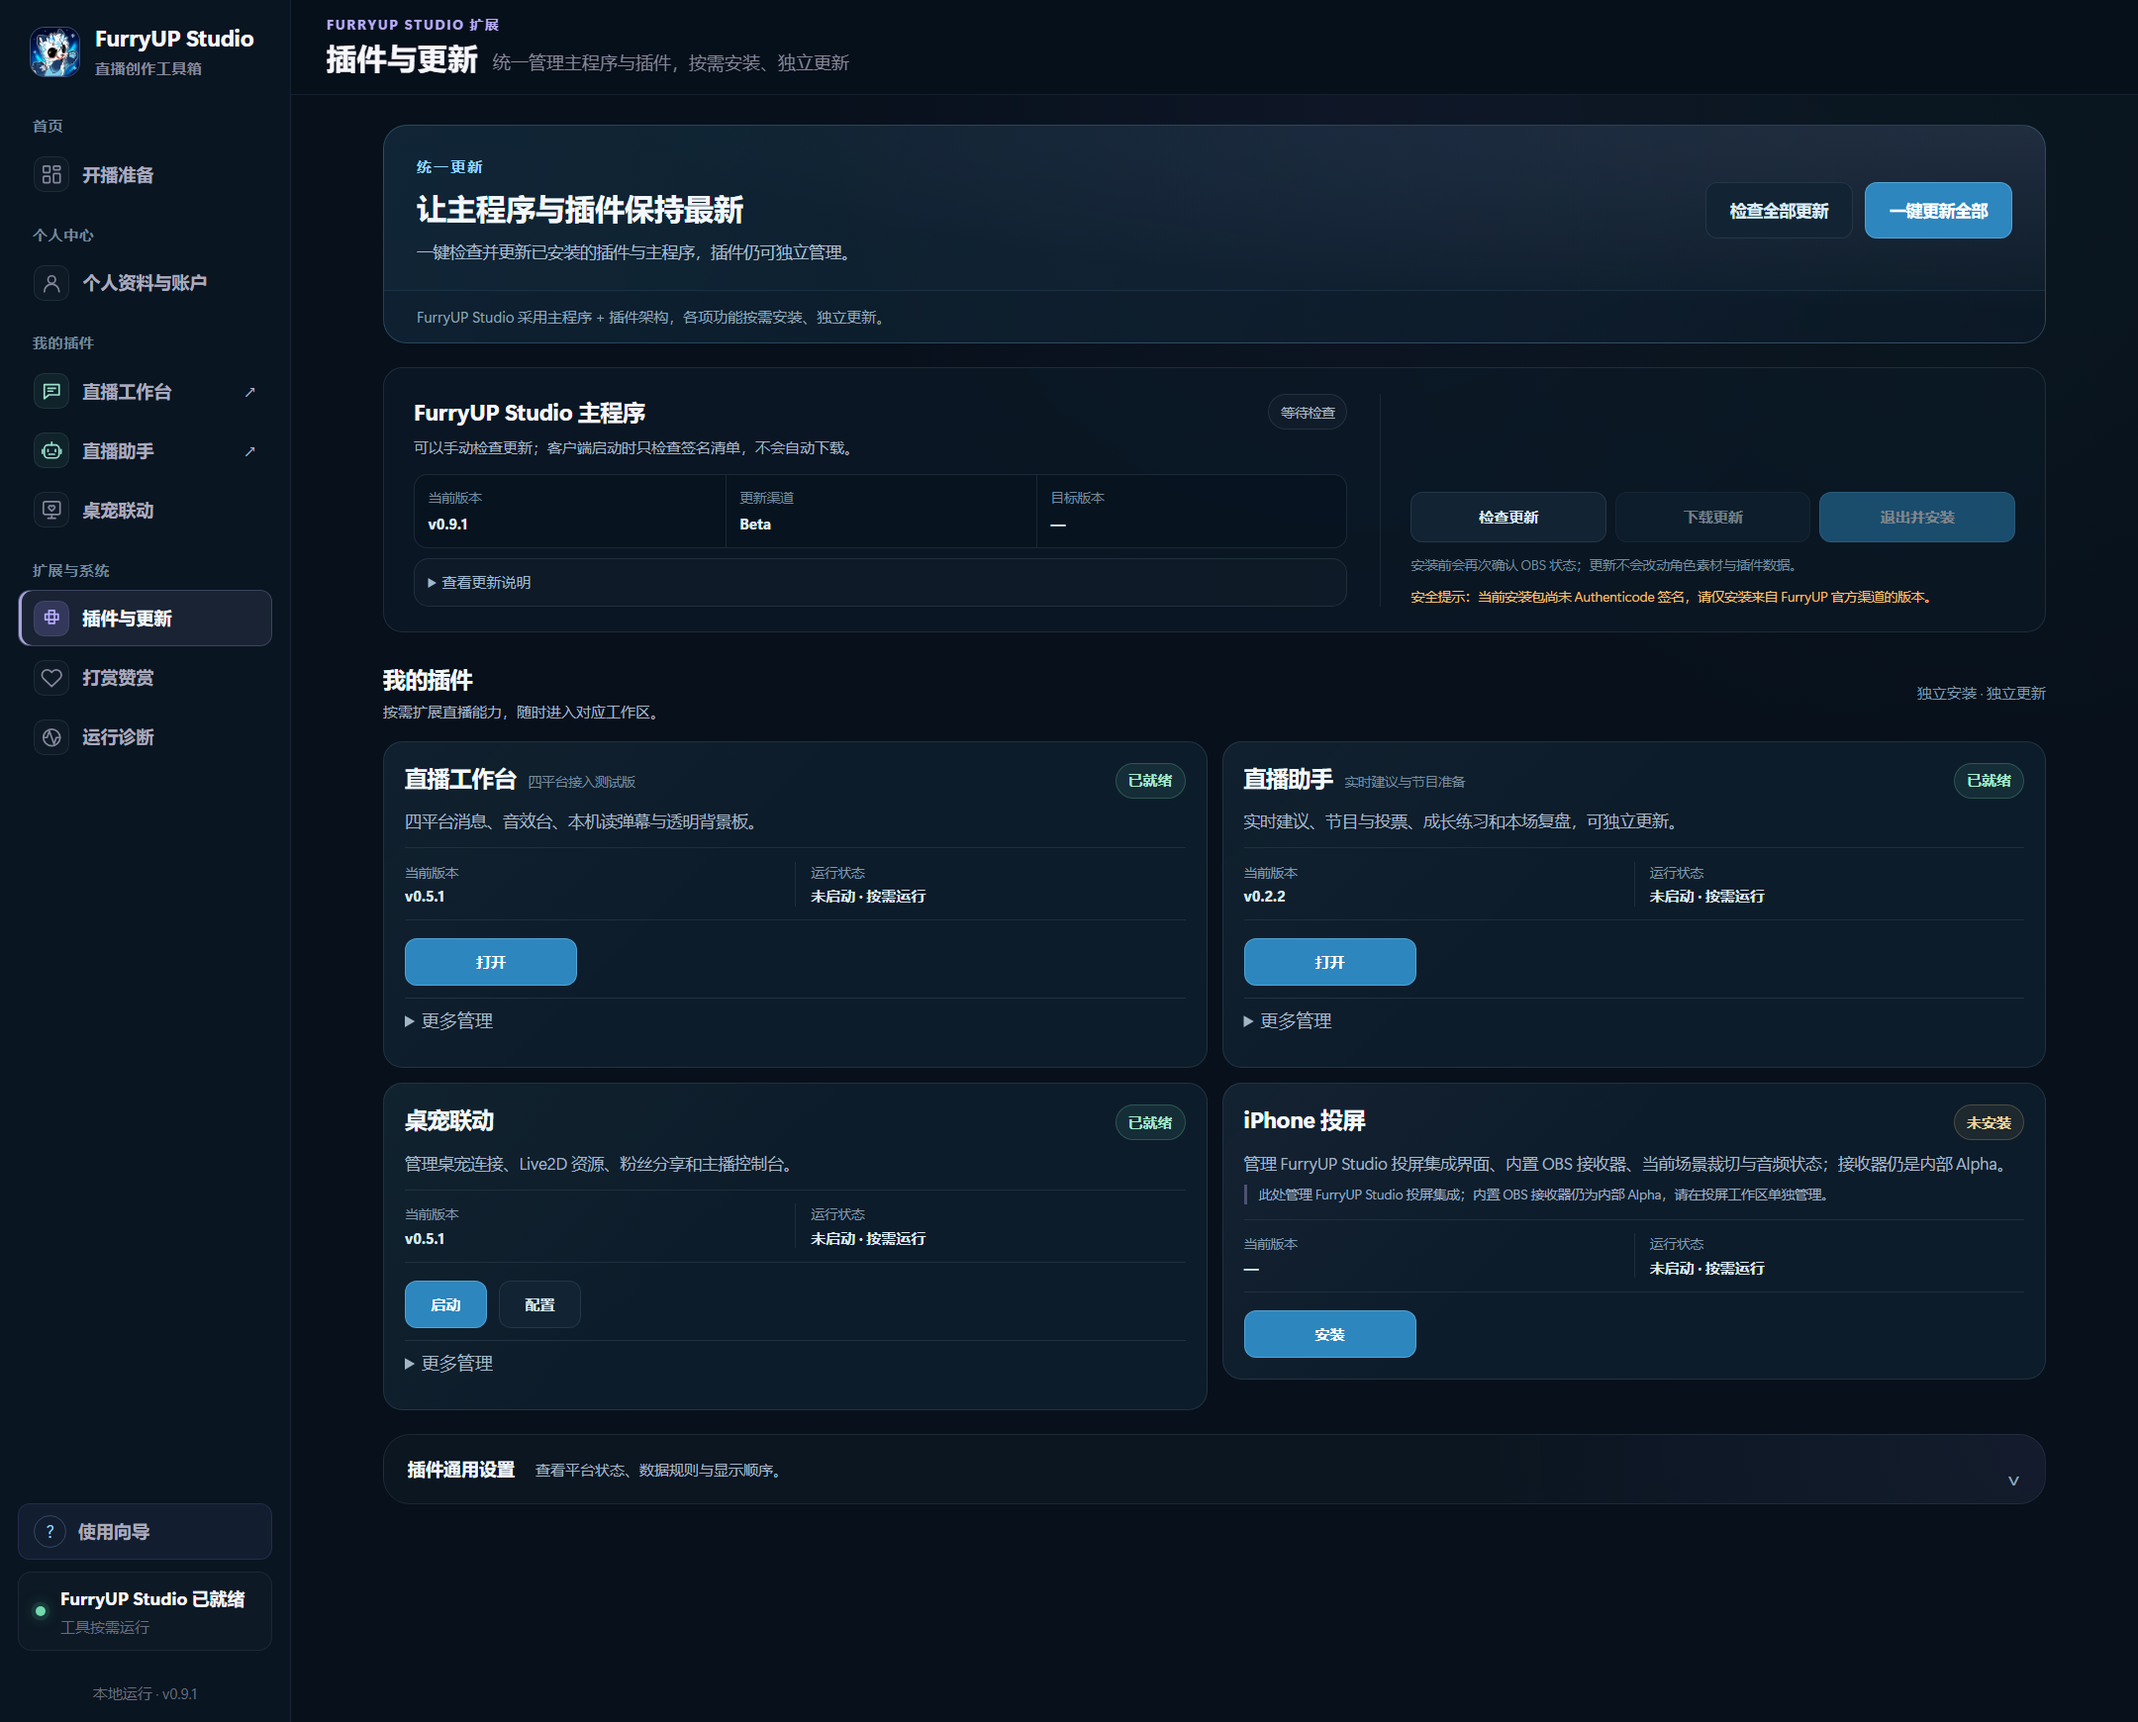
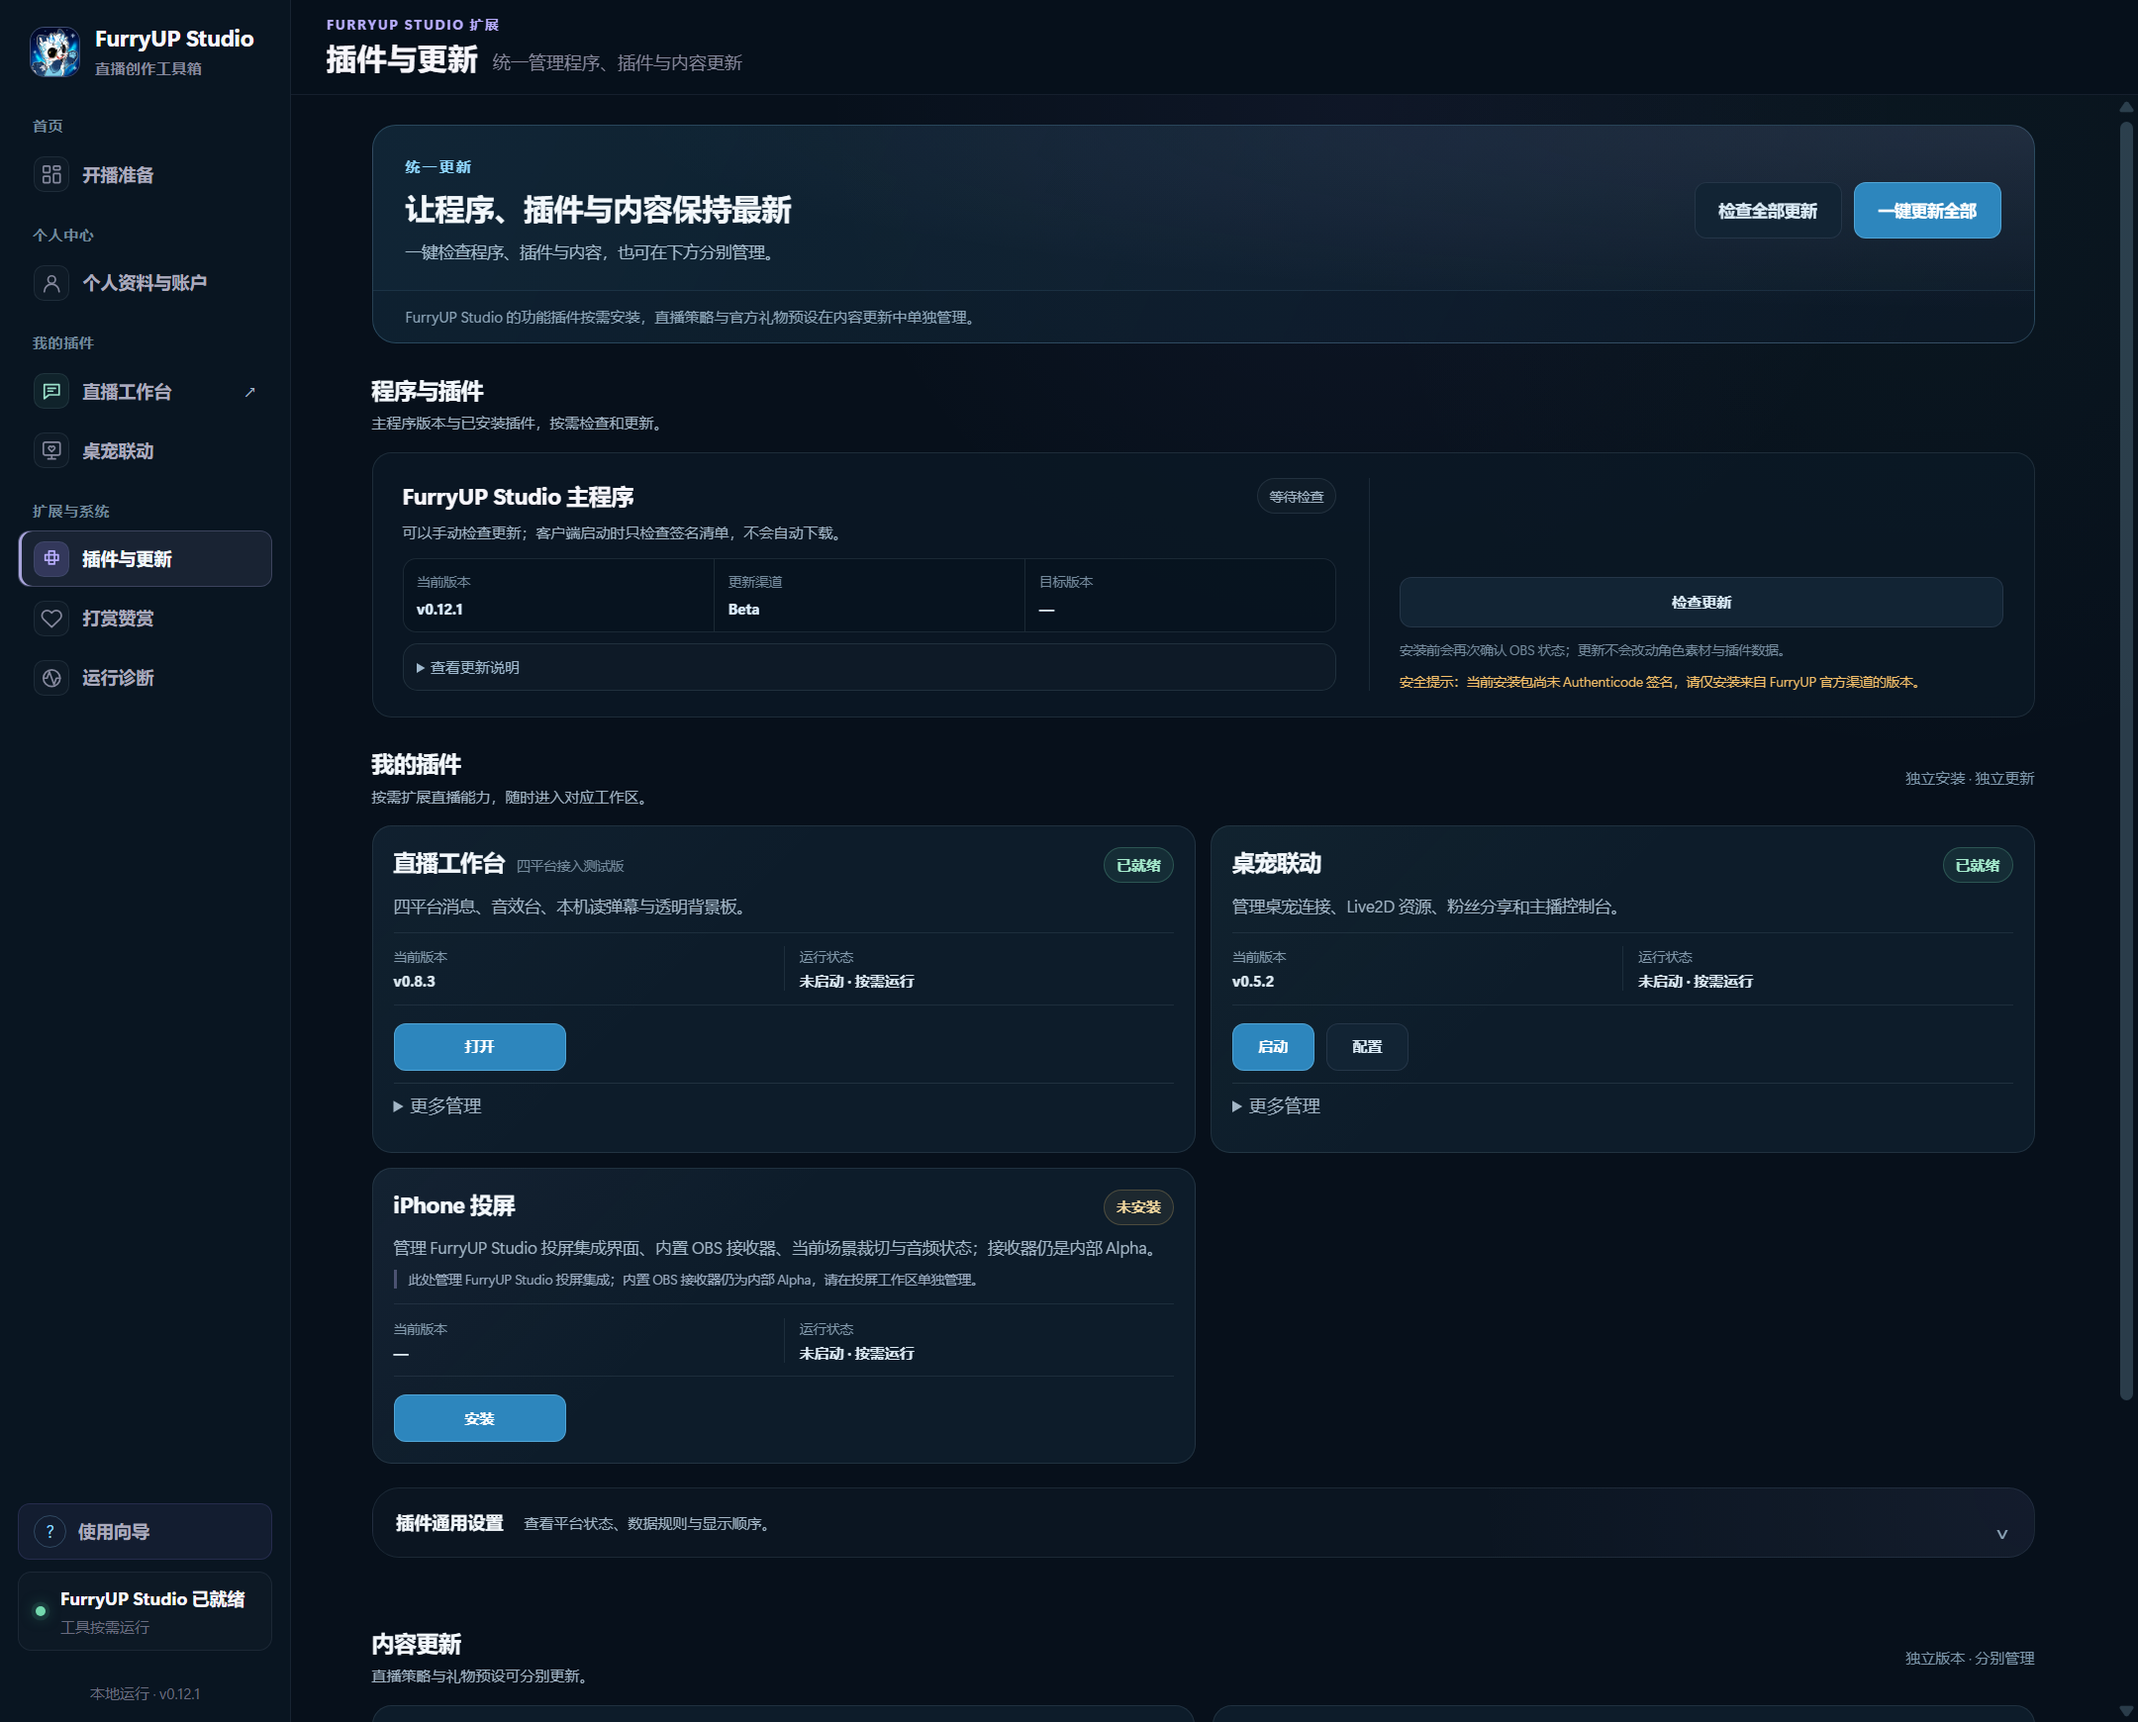
docs: publish FurryUP Studio 0.12.1 responsiveness fixes and current screenshots

diff --git a/CHANGELOG.md b/CHANGELOG.md
@@ -4,6 +4,18 @@
 
 这里记录面向使用者的重要变化。历史条目依据版本说明和构建记录整理，部分版本曾作为本地验收或内测候选；并非每个版本都曾提供公开安装包。历史功能范围不代表当前全部开放，下载请以本仓库 Releases 为准。
 
+## 0.12.1 · 2026-10-20
+
+**操作响应修复与工作台同步更新**
+
+- **操作及时恢复：** 修复更新结束后按钮仍不可用、旧状态覆盖新结果的问题；状态读取超时会提示重试。
+- **减少相互等待：** 检查更新时仍可打开和操作工作台；开播准备中的平台连接与其他软件启动并行进行。
+- **保留准备进度：** 启动、保存或准备预设时可先查看其他页面，返回原预设后保留草稿和操作进度。
+- **工作台 0.8.3：** 支持取消正在进行的平台连接，各平台分别恢复操作按钮；保留视频号登录状态复用及先前的采集、头像和点歌修复。
+- **同步发布：** 主程序安装包与软件内更新使用同一份文件；直播工作台也提供独立更新。
+- **随包插件：** 直播工作台 0.8.3、直播助手 0.5.0、桌宠联动 0.5.2、iPhone 投屏预览 0.4.2。投屏预览仍不包含原生接收器。
+- 保留主程序和独立插件的已有功能；连接、保存及安装仍有防重复操作保护，正式推流由主播在平台软件中确认。
+
 ## 0.9.1 · 2026-10-18
 
 **更新目标显示修复与双渠道同步**
